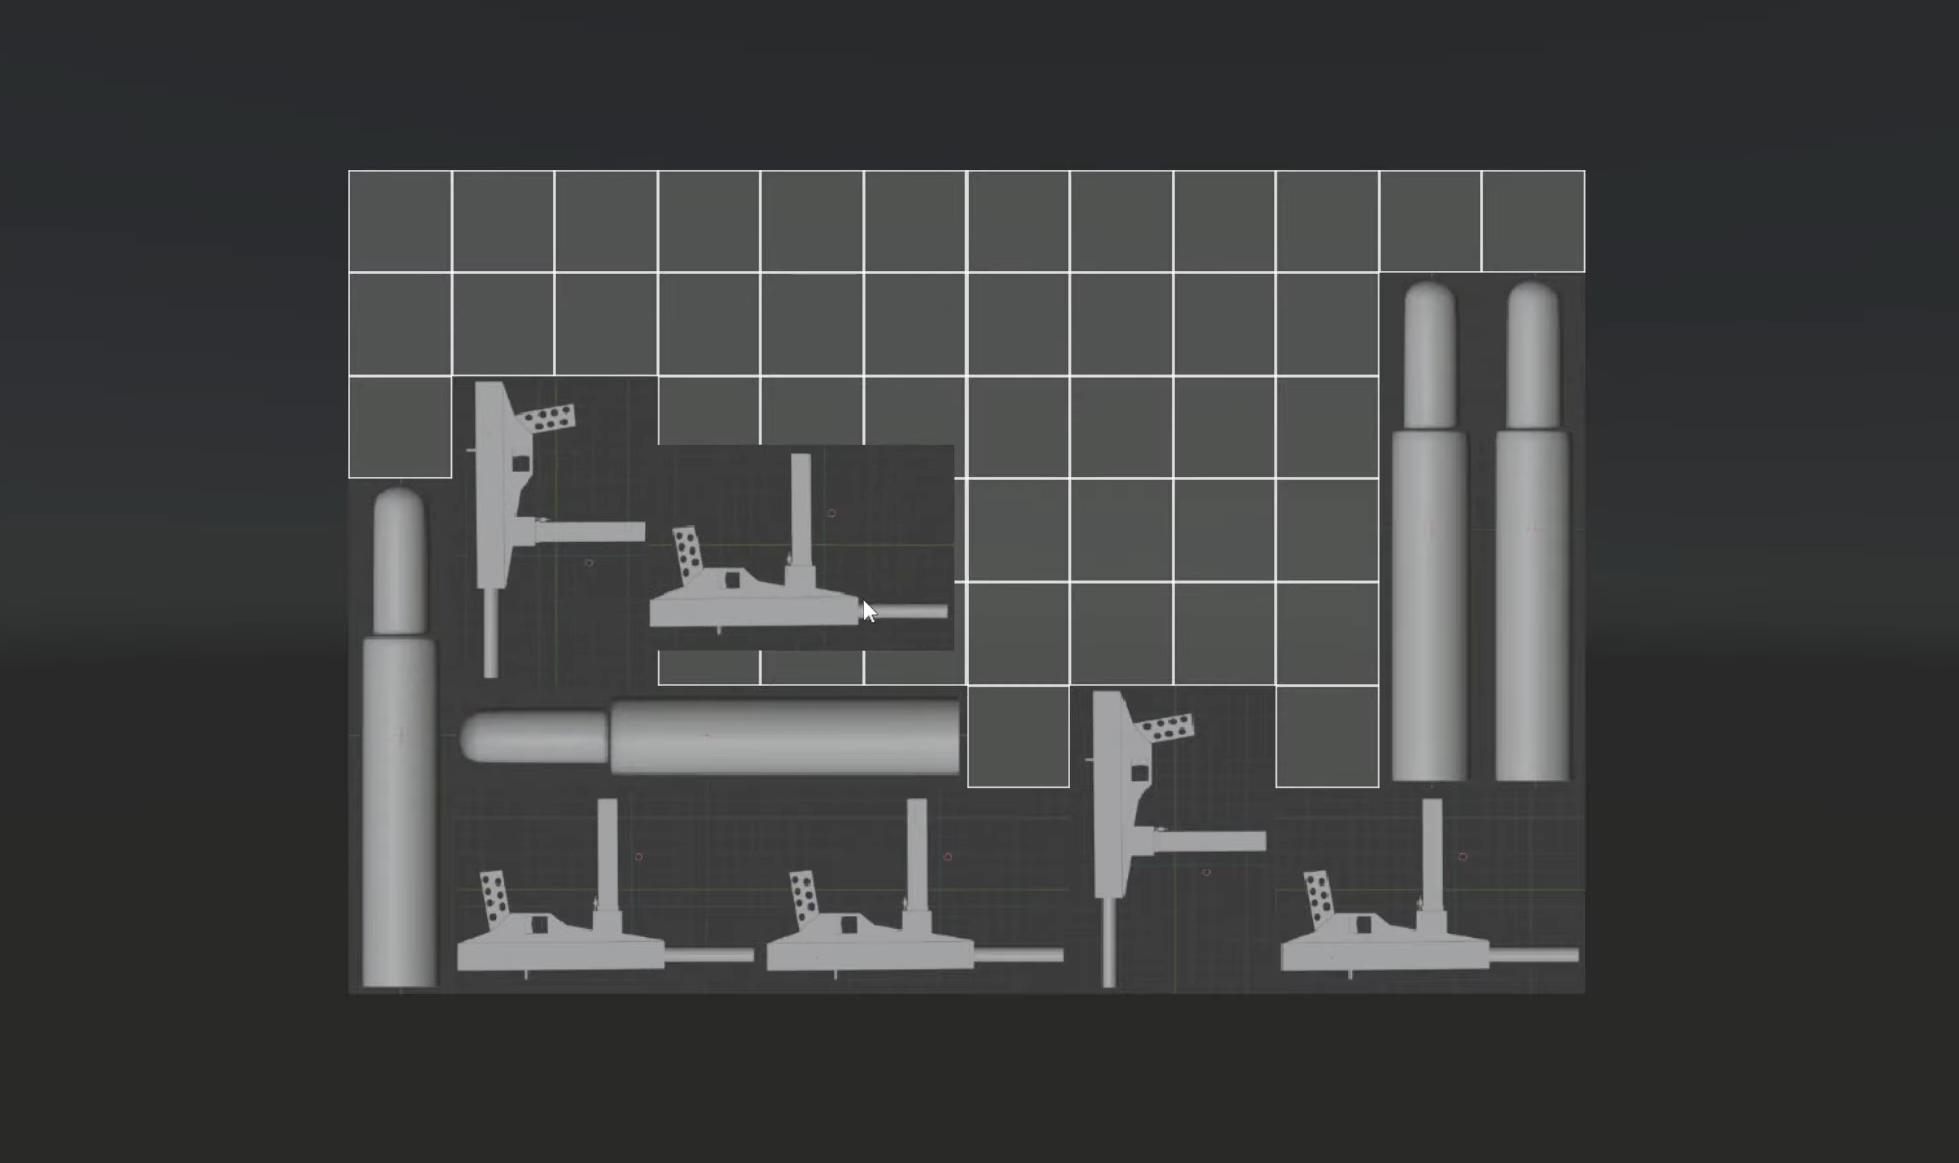
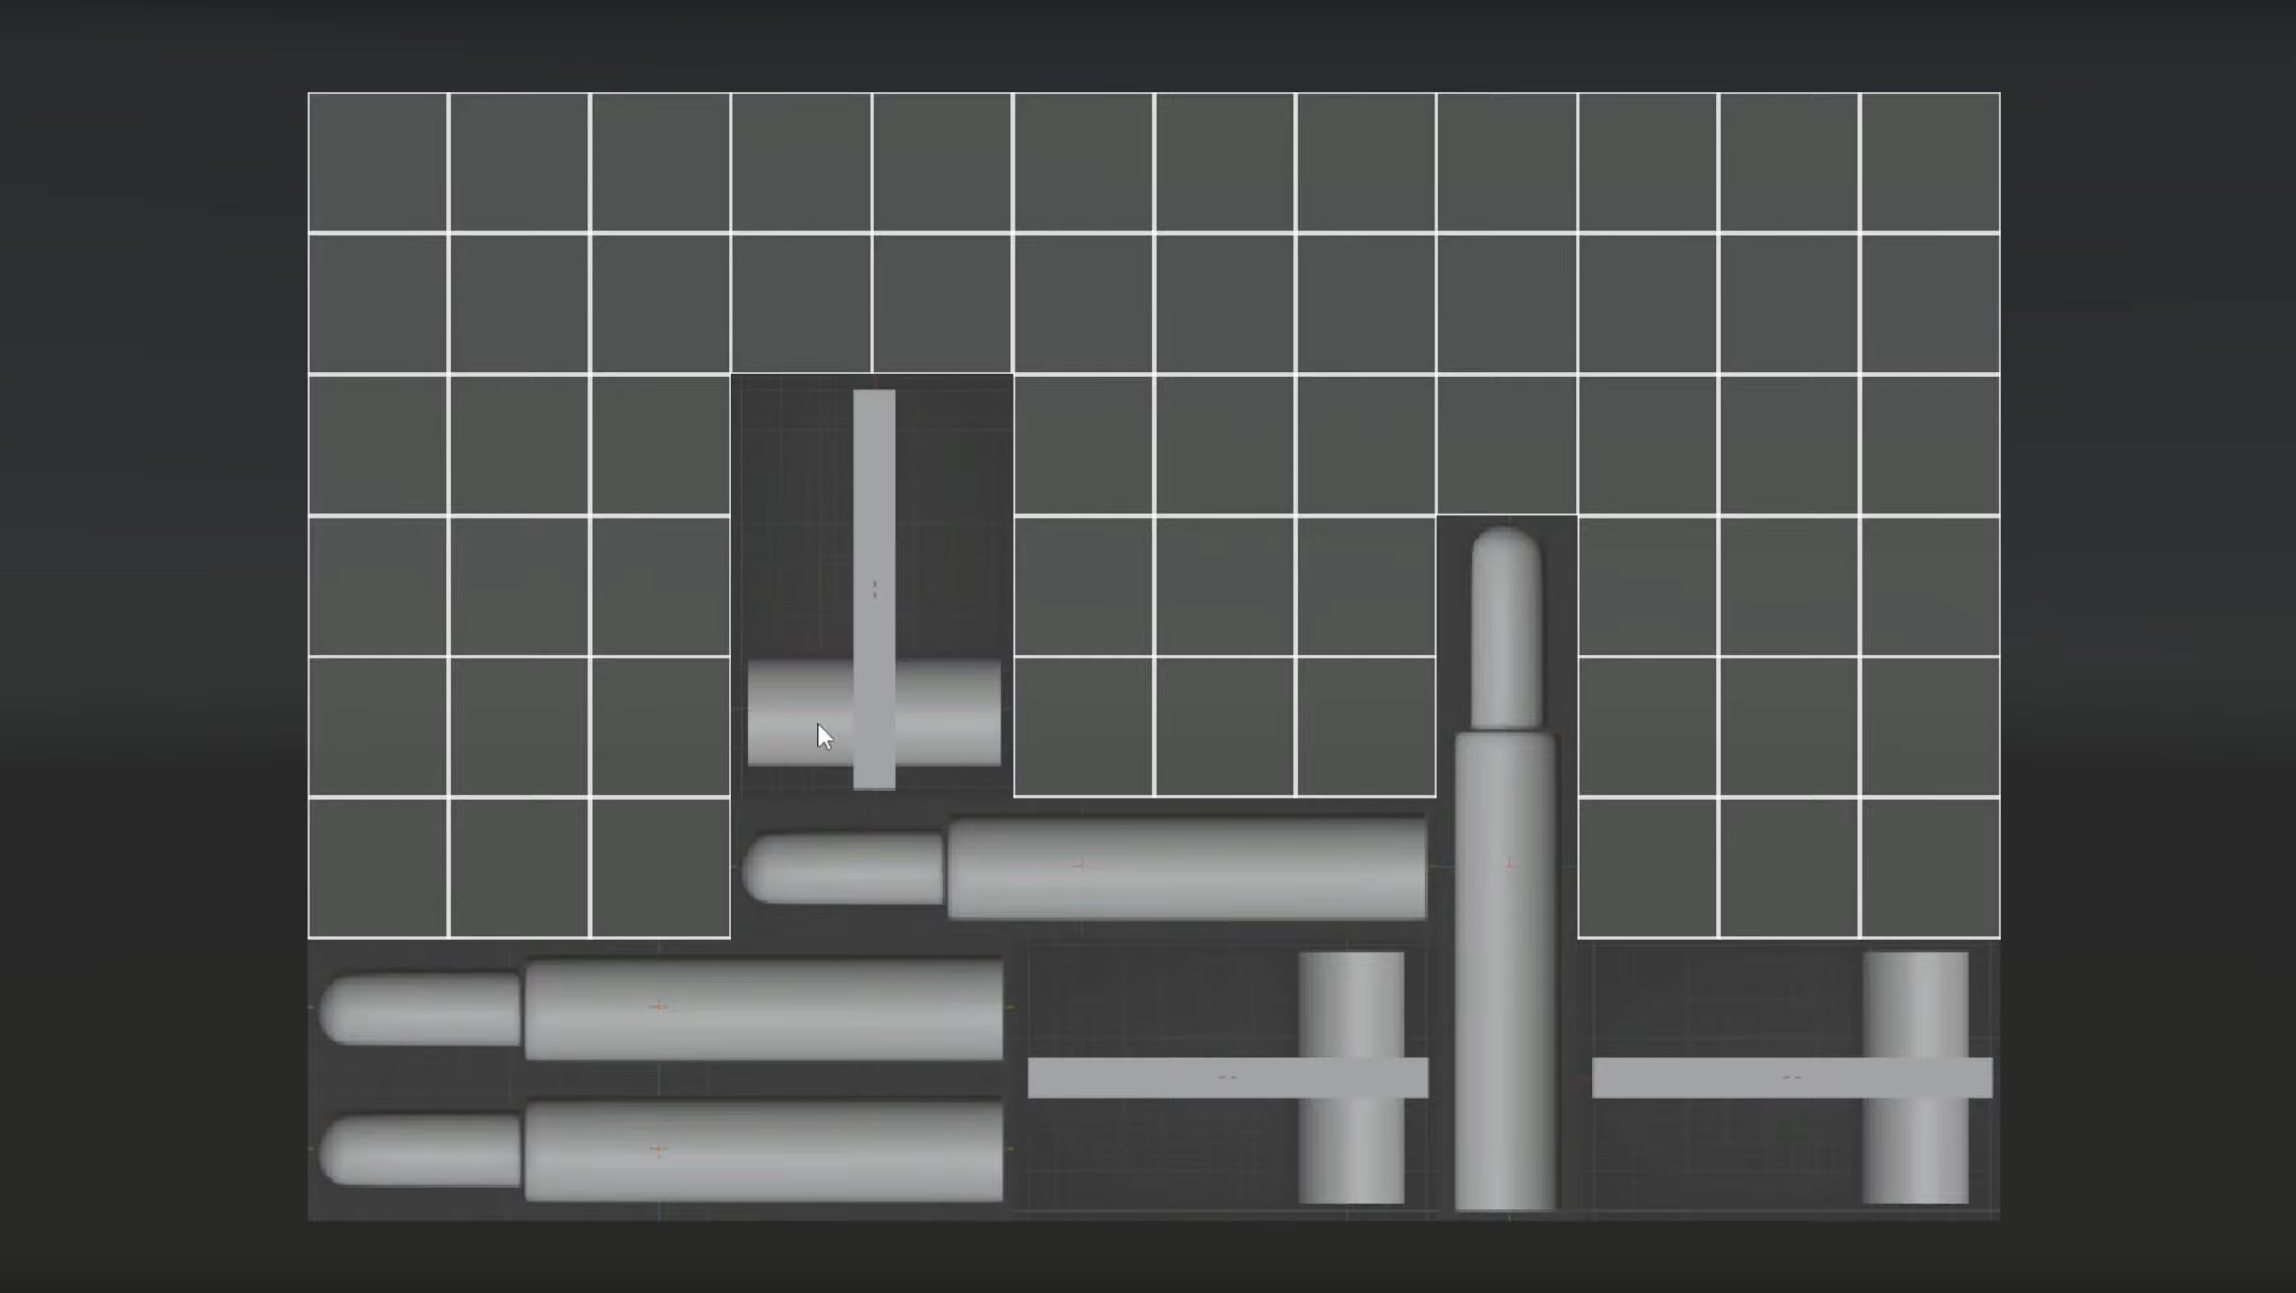
removed gun

diff --git a/content/projects/grid-inventory.md b/content/projects/grid-inventory.md
@@ -4,7 +4,7 @@ date = 2023-10-22T17:44:29-04:00
 draft = false
 weight = 4
 cover = 'img/cover/grid-inventory.png'
-youtube_id = 'qaA2TSzsVDE'
+youtube_id = 'Y37HjABzICk'
 short_description = ''
 tags = [
     "unity",
